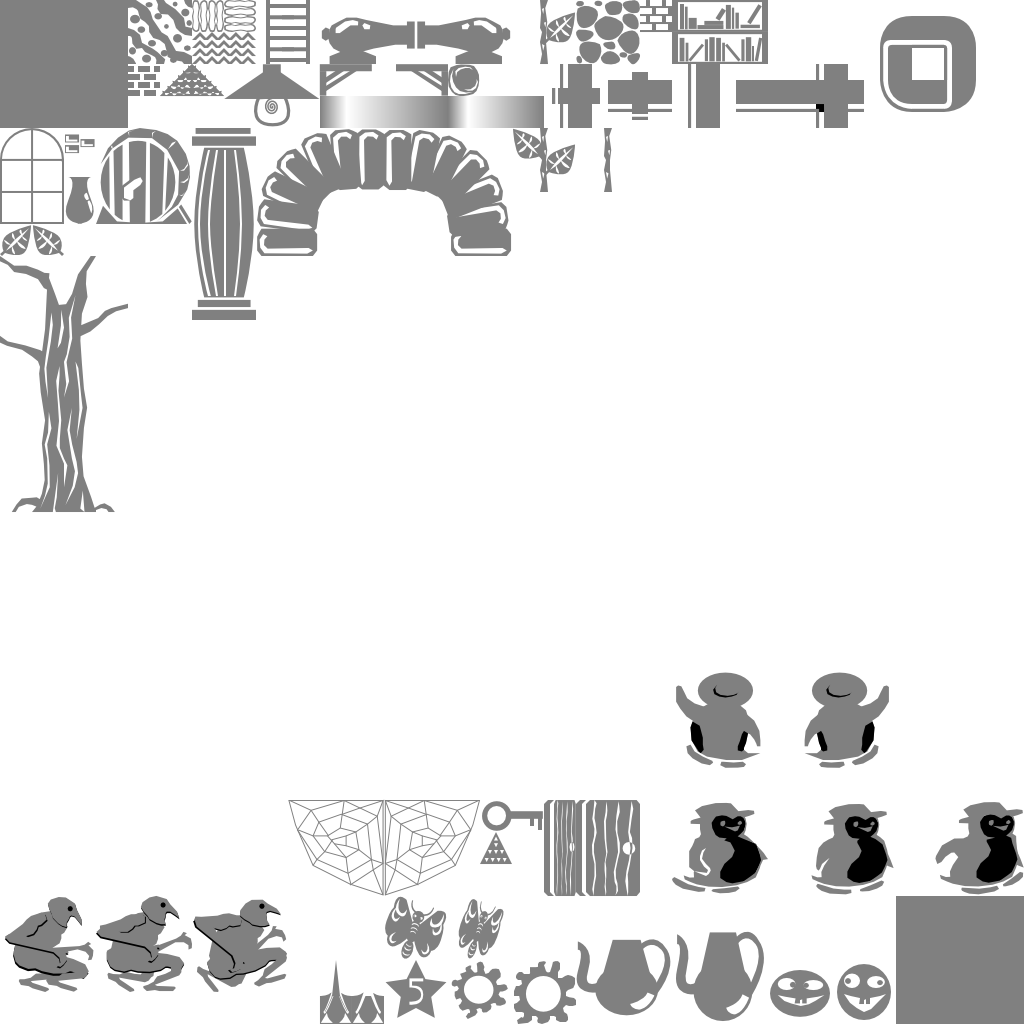
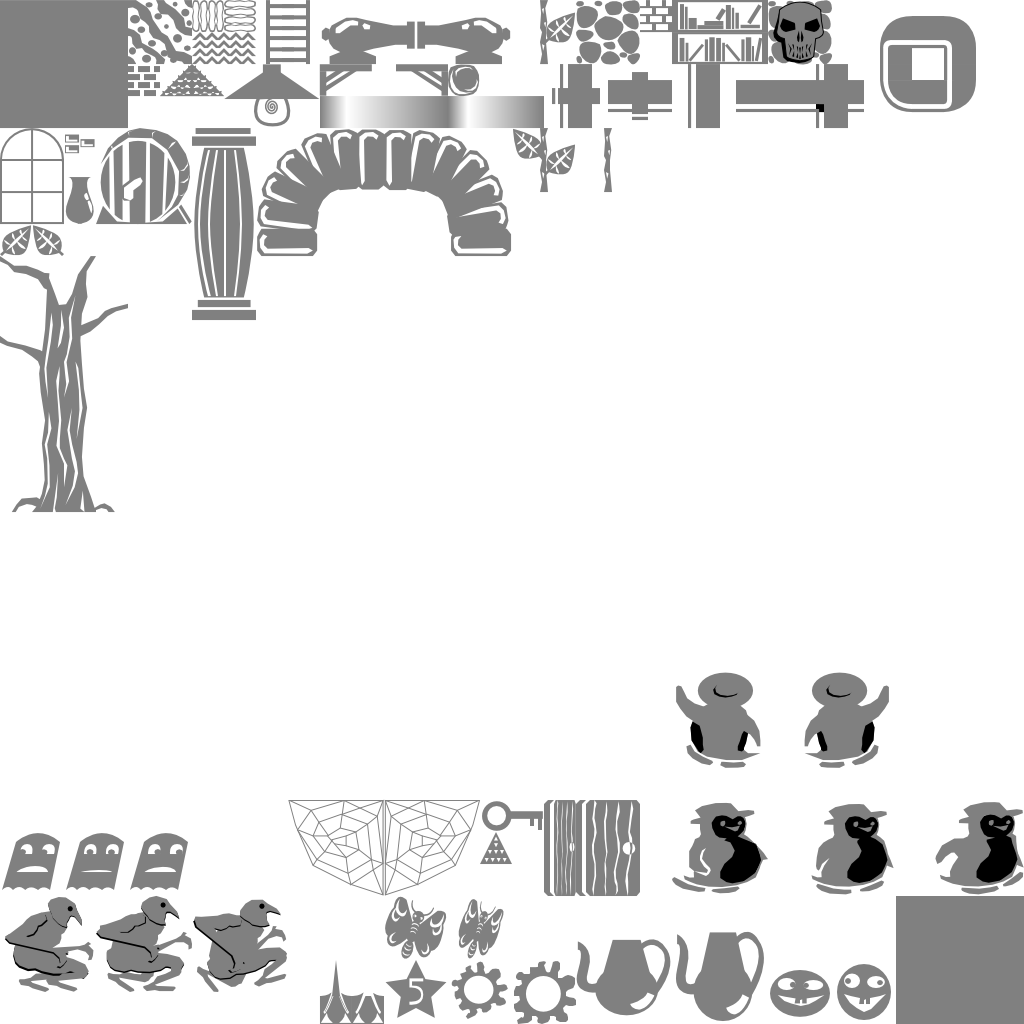
more rooms

Changed region(s): [[0.0, 0.8125, 0.1875, 0.875], [0.75, 0.0, 0.8125, 0.0625]]

diff --git a/src/enemy.js b/src/enemy.js
@@ -34,6 +34,26 @@ var horizontal_move = function(game_state, sprite, enemy) {
     }
 };
 
+var horizontal_ghost_move = function(game_state, sprite, enemy) {
+    if(sprite.body.velocity.x == 0) sprite.body.velocity.x = enemy.speed;
+    var to_left = sprite.body.velocity.x < 0;
+    var flip = (sprite.body.touching.left && to_left) ||
+        (sprite.body.touching.right && !to_left) ||
+        (sprite.x <= 0 && to_left) ||
+        (sprite.x >= game_state.game.width - sprite.width && !to_left);
+    if (flip) {
+        sprite.body.velocity.x *= -1;
+    }
+    // directional sprites
+    if (sprite.body.velocity.x != 0) {
+        sprite.scale.x = ATLAS_SCALE * (sprite.body.velocity.x < 0 ? -1 : 1);
+    }
+
+	if(sprite["start_y"] == null) sprite.start_y = sprite.position.y;
+//	sprite.position.y = sprite.position.y + game_state.clock
+	sprite.position.y = sprite.start_y + 10 * Math.sin(sprite.position.x * 0.05);
+};
+
 var zigzag_move = function(game_state, sprite, enemy) {
     if(sprite.body.velocity.x == 0) sprite.body.velocity.x = enemy.speed;
     var to_left = sprite.body.velocity.x < 0;
@@ -214,6 +234,12 @@ var ENEMIES =  {
         seq: [],
         speed: 100,
         move: no_move,
+        gravity: false
+    },
+	"ghost1": {
+        seq: [ "ghost1", "ghost2", "ghost3" ],
+        move: horizontal_ghost_move,
+        speed: 200,
         gravity: false
     }
 };

diff --git a/src/rooms.js b/src/rooms.js
@@ -18,13 +18,15 @@ var WORLD = {
  	"earth2": ["earth", null, null, "down"],
     "down": [null, null, "earth2", "down2"],
     "down2": [null, null, "down", null],
-	"pipeline": ["chasm", "pipeline2", "cellar2", null],
-	"pipeline2": ["pipeline", "stairs", null, null],
+	"pipeline": ["chasm", "pipeline2", "cellar2", "crypt"],
+	"pipeline2": ["pipeline", "stairs", null, "crypt2"],
 	"chasm": [null, "pipeline", null, "chasm2"],
 	"chasm2": [null, "crypt", "chasm", null],
-	"stairs": ["pipeline2", "stairs2", null, null],
+	"stairs": ["pipeline2", "stairs2", null, "crypt3"],
 	"stairs2": ["stairs", null, "earth", null],
-	"crypt": ["chasm2", null, "pipeline", null]
+	"crypt": ["chasm2", "crypt2", "pipeline", null],
+	"crypt2": ["crypt", "crypt3", "pipeline2", null],
+	"crypt3": ["crypt2", null, "stairs", null]
 };
 
 var DESCRIPTIONS = {
@@ -49,7 +51,9 @@ var DESCRIPTIONS = {
     chasm2: "The great chasm",
     stairs: "Dusty service tunnels",
     stairs2: "Dusty service tunnels",
-	crypt: "Forgotten crypts"
+	crypt: "Forgotten crypts",
+	crypt2: "Forgotten crypts",
+	crypt3: "Forgotten crypts"
 };
 
 // rooms cache

diff --git a/src/textures.js b/src/textures.js
@@ -121,7 +121,9 @@ var BLOCKS = [
 	["turquoise", "floor2"],
 	["turquoise", "floor3"],
 	["yellow", "vine2"],
-	["yellow", "vine3"]
+	["yellow", "vine3"],
+	["turquoise", "ghost1"],
+	["white", "skull"]
 ];
 
 EXTRA_INFO = {
@@ -229,6 +231,9 @@ EXTRA_INFO = {
     },
 	"pipe_ne": {
         ladder: true
+    },
+	"skull": {
+        decor: true
     }
 };
 
